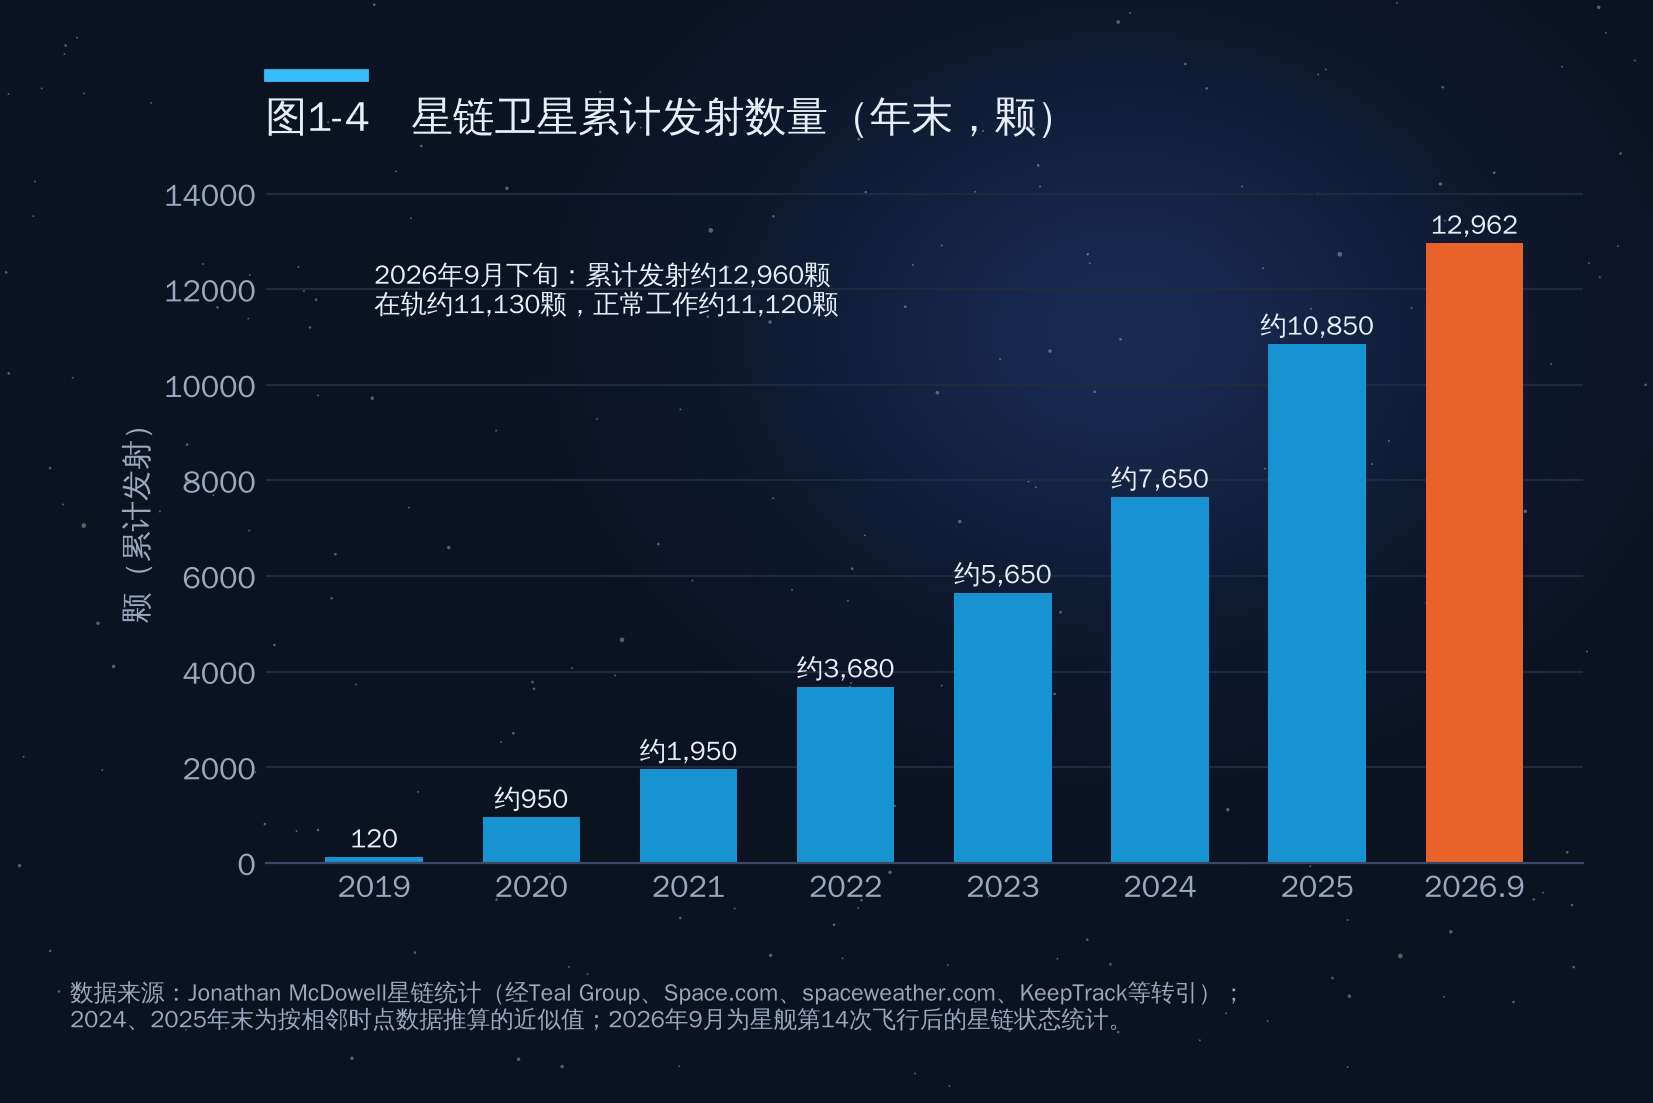
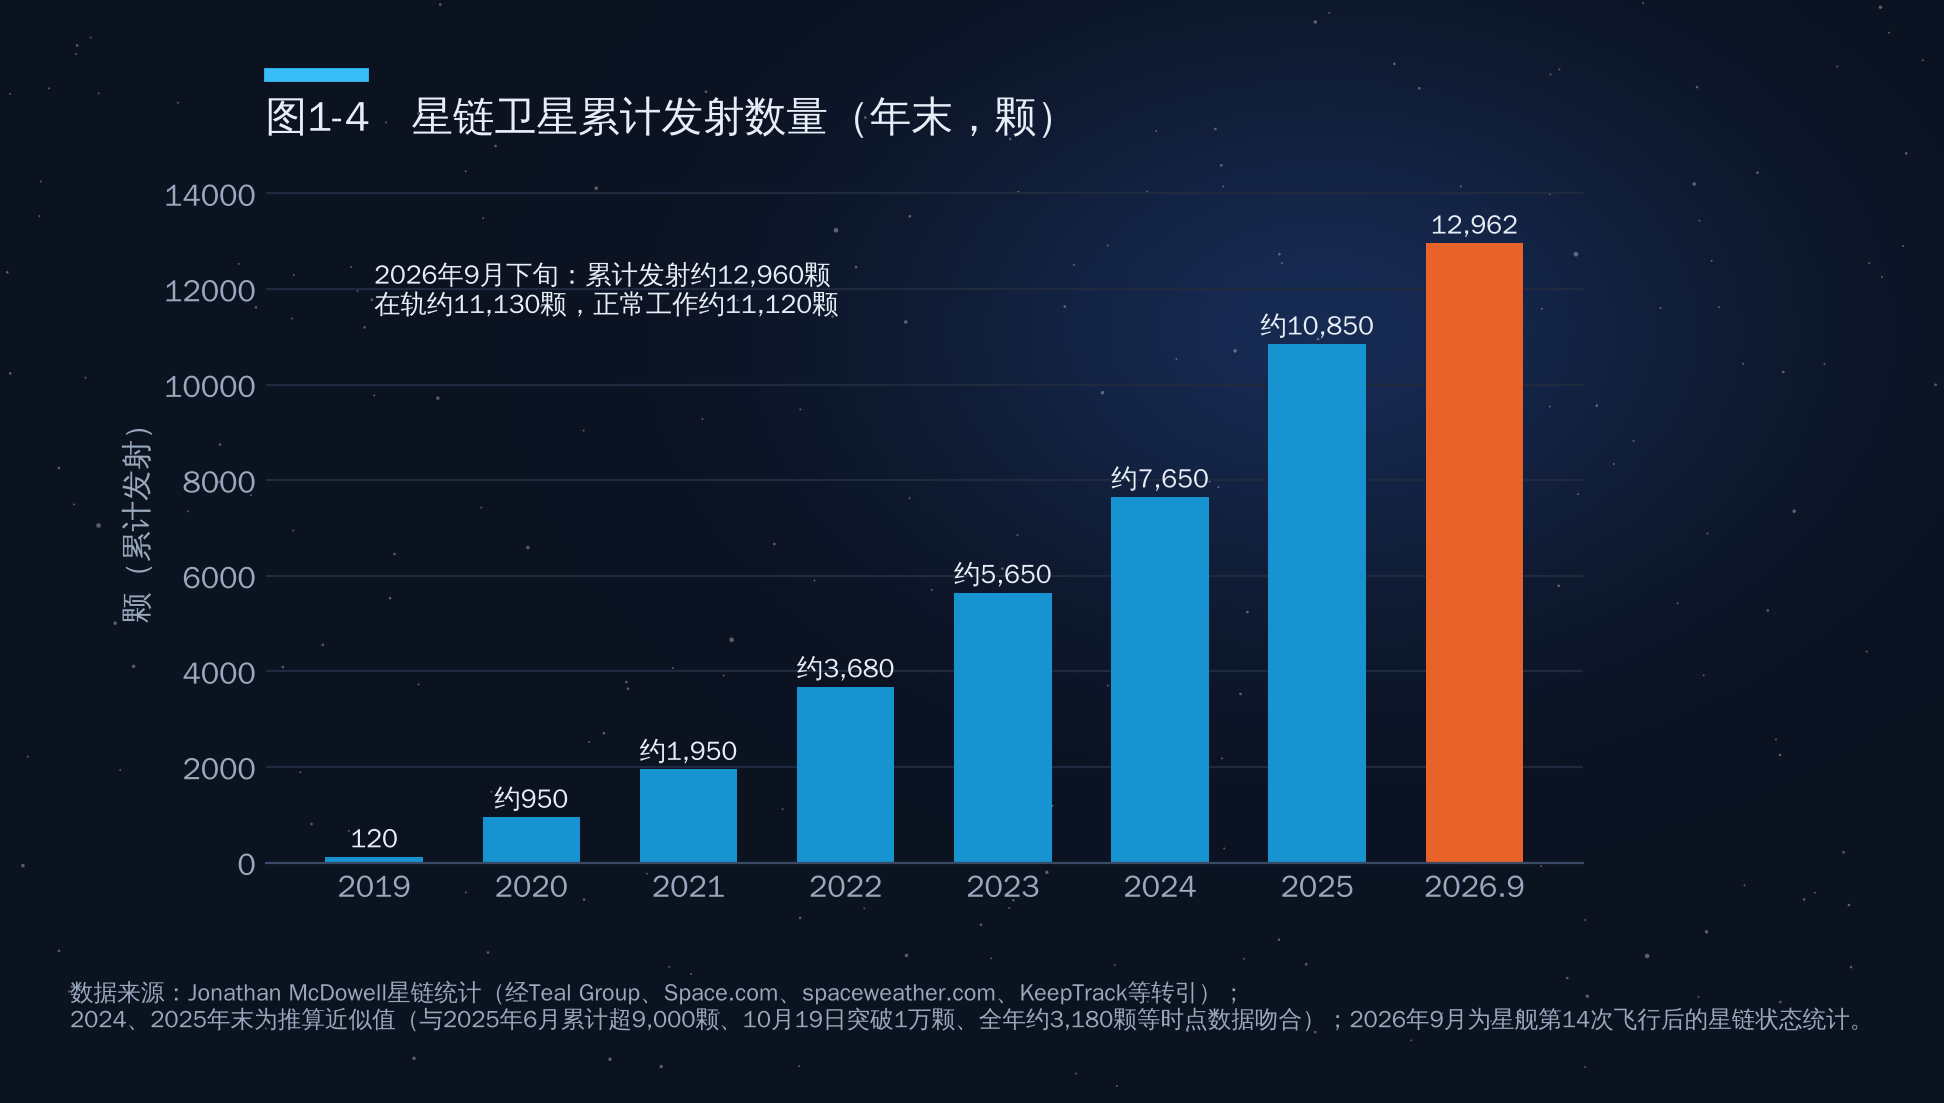
Part IV: third-round exhaustive fact-check
Claude-Session: https://claude.ai/code/session_014tmLkR5ogaDPRCKC77QLgm

diff --git a/doha-space-economy/part1/charts/fig1-4_starlink_cumulative.py b/doha-space-economy/part1/charts/fig1-4_starlink_cumulative.py
@@ -14,5 +14,5 @@ ax.set_ylabel("颗（累计发射）")
 ax.set_ylim(0, 14500)
 ax.text(0, 11500, "2026年9月下旬：累计发射约12,960颗\n在轨约11,130颗，正常工作约11,120颗", fontsize=9.5, color="#444444")
 ax.set_title("图1-4　星链卫星累计发射数量（年末，颗）")
-source_note(fig, "数据来源：Jonathan McDowell星链统计（经Teal Group、Space.com、spaceweather.com、KeepTrack等转引）；\n2024、2025年末为按相邻时点数据推算的近似值；2026年9月为星舰第14次飞行后的星链状态统计。")
+source_note(fig, "数据来源：Jonathan McDowell星链统计（经Teal Group、Space.com、spaceweather.com、KeepTrack等转引）；\n2024、2025年末为推算近似值（与2025年6月累计超9,000颗、10月19日突破1万颗、全年约3,180颗等时点数据吻合）；2026年9月为星舰第14次飞行后的星链状态统计。")
 save(fig, __file__)

diff --git a/doha-space-economy/part1/charts/fig6-1_telescopes.py b/doha-space-economy/part1/charts/fig6-1_telescopes.py
@@ -23,7 +23,7 @@ for i, (name, ap, band, orbit, done) in enumerate(t):
 ax.set_yticks(range(len(t)))
 ax.set_yticklabels([x[0] for x in t])
 ax.set_xlim(0, 11.5)
-ax.set_xlabel("主镜口径（米）")
+ax.set_xlabel("口径（米）")
 ax.grid(axis="x", color="#E5E5E5"); ax.grid(axis="y", visible=False)
 ax.set_title("图6-1　主要空间望远镜的口径、波段与轨道位置")
 source_note(fig, "数据来源：NASA、ESA、中国载人航天工程办公室公开资料。斜线柱为计划中项目（发射时间以官方最新公布为准）。\n欧空局PLATO（计划2027年初发射）由26台口径12厘米相机组成，未列入。")

diff --git a/doha-space-economy/part5/zz_notes.md b/doha-space-economy/part5/zz_notes.md
@@ -12,7 +12,7 @@
 - SpaceX：招股说明书（S-1）及2026年第二季度财报（经彭博、Motley Fool、Nasdaq等转引）；IPO条款见彭博、WAM。
 - Jonathan McDowell：2025年全球发射统计（经Payload等转引）。
 - 企业：Advanced Television（亚马逊Leo）；路透社（Eutelsat）；AST SpaceMobile、Planet Labs、Rocket Lab财报。
-- 中国：国家航天局；澎湃新闻、第一财经；新华社、光明网；C114通信网；界面新闻、华尔街见闻；《新民周刊》；赛迪论坛及《中国商业航天产业研究报告》。
+- 中国：国家航天局；赛迪智库《2026年我国商业航天产业发展形势展望》（经媒体转引）；澎湃新闻、第一财经；新华社、光明网；C114通信网；界面新闻、华尔街见闻；《新民周刊》；赛迪论坛及《中国商业航天产业研究报告》。
 - 投资：Seraphim Space Index；Space Capital（经MarketWatch、CNBC转引）。
 - 海湾：PIF官网；路透社、《金融时报》、彭博、AGBI；Space42公告；卡塔尔通讯社。
 
@@ -37,19 +37,30 @@
 
 ### 数据核查说明
 
-1. **全球太空经济规模**：Space Foundation 2025年6856亿美元；Novaspace同年6264亿美元，口径不同，正文已说明。
-2. **"2026年商业航天市场预计可达3.5万亿元"**：未找到权威出处；已核实的是2025年"核心产业"1.01万亿元（赛迪）与"产业规模"2.5万亿—2.8万亿元，正文作宽口径预测处理。**请作者确认来源。**
-3. **星链用户数**：已核实（第二轮）→ 最新官方数仍为1200万（2026年6月30日，二季度财报），三季度数据尚未发布；"超过1300万"仅见二手报道。分部收入为二手转引S-1，各源相差约1亿美元。
-4. **SpaceX股价**：已核实（第二轮）→ 6月16日高点约225.6美元；7月下旬跌破发行价（低点各源105—111美元不等）；8月4日财报后盘后跌6%—8%；10月1日约152美元、市值约2.0万亿美元。原文"8月初跌至117美元"无可靠来源，已改。来源：MarketChameleon、SiliconANGLE、XTB。**演讲前请按实时行情更新。**
-5. **星链在轨卫星数**：已核实（第二轮）→ 9月10日McDowell统计累计发射12935颗、在役11118颗；9月21日KeepTrack统计在役11139颗。已在14.3节补写。
-6. **美国太空军预算**：已核实（第二轮）→ FY2021最终拨款约152亿美元（SpaceNews）；FY2022约180.55亿美元（SpacePolicyOnline）；FY2024约289亿美元（SpacePolicyOnline；SpaceNews称约290亿）；FY2025为全年持续决议，约288亿—289亿美元（SpaceInsider）。图15-1与正文已改为最终拨款数。FY2026"约400亿美元"与空军图表"320亿美元"的口径差异仍未解。
-7. **"金穹"成本**：三个数字均有来源；已拨约250亿美元（另一来源约240亿）。
-8. **GNSS干扰**：已核实（第二轮）→ IATA数据：每千架次GPS信号丢失事件2022年31次、2025年约59次（估计，2025年12月IATA发布，经Business Standard等转引）；2022年此类事件68.5%发生在中东北非及邻近地区（IATA提交ICAO中东区会议材料）。已补入15.2节。二手文章"干扰增长67%、欺骗增长193%"仍未见IATA原文，未采用。
-9. **北斗产值**：已核实（第二轮）→ 2019年3450亿（《2020白皮书》，经前瞻、智研转引）、2020年4033亿（核心1295+关联2738亿）、2021年4690亿（+16.29%，《2022白皮书》，中新网）、2023年5362亿（+7.09%，《2024白皮书》）、2022年由此反推约5007亿；2024年5758亿、2025年6290亿及新口径13323亿已核实。图15-4数据无误。
-10. **麦肯锡"骨干/延伸"拆分**：部分核实（第二轮）→ 2023年骨干3300亿、延伸3000亿美元为麦肯锡原文；2035年骨干约7550亿、延伸"超过1万亿美元"见多家二手报道（SpaceNews作7750亿）。图14-2中延伸1.035万亿美元未见原文，WEF报告PDF无法访问；正文已改为"1万亿美元以上"。**请作者以WEF报告原图核对。**
-11. **太空旅游价格**：已核实（第二轮）→ 蒂托约2000万美元（CNN）、拉利伯特约3500万美元（2009年）、维珍早期20万—25万美元、2021年45万美元、2026年75万美元；Ax-1约5500万、Ax-4约7000万（报道）。蓝色起源"98人次（92人）"已核实。
-12. **朱雀三号一子级回收**：已核实（第二轮）→ 2026年8月19日朱雀三号遥二发射成功，一子级以着陆支腿方式软着陆于甘肃民勤，为中国首次入轨级火箭一子级陆地回收（新华网、光明网、Spaceflight Now）。正文已改为确定表述。**蓝箭航天IPO**：2025年12月31日受理、2026年1月22日进入问询、6月29日更新招股书（2025年营收约5210万元、净亏损约17.11亿元）；未检索到过会或注册消息，正文写"仍在审核中"。
-13. **嫦娥七号**：已核实（第二轮）→ 8月23日官方宣布"不满足发射条件，不能在今年预定窗口实施"，未公布原因与新日期（美联社、新华社）；与第三部分表述一致，已在16章补注。埃及—巴林载荷已核实。
-14. **亚马逊Leo、AST SpaceMobile**：已核实（第二轮）→ Leo最新可靠数仍为7月初在轨396颗，FCC已批准其里程碑延期（24个月），企业测试版4月开放，商业服务计划2026年内启动，8—9月新增数未见可靠统计。AST截至2026年8月5日累计发射约13颗BlueBird（含此前一次发射失利，在轨数可能约12颗），目标约45颗（2026年底或2027年初）。
-15. **其他抽查（第二轮）**：Viasat KA-SAT攻击致德国Enercon约5800台风机失去远程监控——已核实；SpaceX收购EchoStar频谱——已核实为2025年9月宣布约170亿美元（AWS-4与H频段）、11月追加约26亿美元（AWS-3），交割状态未检索到，正文已改；卡尔达肖夫等级——萨根1973年估算约0.7，按当下约20太瓦能耗约0.73，正文已补；星舰第14次飞行部署26颗V3卫星——已核实。
-16. **仍未单独检索、建议抽查**：中阿北斗合作论坛与突尼斯中心；2025年3月美国暂停对乌商业图像访问；俄罗斯2024年4月安理会否决；千帆与多国签署合作；阿拉伯语星名词源；苏菲、比鲁尼生平；奥尼尔"岛三号"尺寸。
+（"三"＝第三轮核实，2026年10月8日。）
+
+1. **全球太空经济**：已核实（三）→ Space Foundation 2025年6856亿美元（商业5443亿、79%；"2032年前后破万亿"见2025 Q2发布）；Novaspace 2025年6264亿、核心2360亿、2034年1.01万亿（年均5.5%为推算）。
+2. **"2026年商业航天3.5万亿元"**：已核实（三）→ 出自赛迪智库《2026年我国商业航天产业发展形势展望》：2025年2.83万亿元（+21.7%），2026年约3.5万亿元（东方财富、21财经等转引；原报告未得见，口径未公开，另有文章归于"全拓数据"）。正文已补出处。
+3. **星链用户**：已核实（三）→ 最新官方仍为1200万（6月30日）；三季度财报尚未发布（预计10月底至11月中旬）。"超过1300万"仅二手。ARPU 99→66美元为S-1二手转引。
+4. **SpaceX**：已核实（三）→ 10月7日收盘167.6美元，市值2.21万亿—2.34万亿美元（Google Finance、MarketBeat、StockAnalysis）；52周区间104.83—225.64美元。原"10月初约150美元、约2万亿"已改。**演讲前请按实时行情更新。**IPO流通股约4.9%、分批解禁、马斯克锁定366天（Motley Fool、Morningstar）；xAI合并1.25万亿、2025年12月8000亿（彭博、SCMP）；二季度收入78亿（+92%）、连接43亿（+66%）、企业与政府18.06亿（+108%）（公司财报）。
+5. **星链在轨数**：已核实（第二轮）。
+6. **太空军预算**：FY21—25已核实（第二轮）；FY2023约263亿已核实（三，SpacePolicyOnline）。FY2026：已查明（三）→ 国防部口径401亿＝常规约263亿＋和解138亿；空军部2026年春图表显示320亿，约80亿差额SpacePolicyOnline亦称"去向不明"；Aerospace/CSPS按320亿计FY27增幅约120%。正文已并列两种口径。
+7. **"金穹"**：已核实（三）→ 1750亿/1850亿/1.2万亿/4480亿/7800颗；FY27申请175亿（常规3.98亿）；20份合同、12家、上限32亿（DefenseScoop）；250亿已签约约九成；7月底缩减版和解方案未含金穹资金、现处持续决议（Breaking Defense、DefenseScoop，2026年8月）。正文已补。
+8. **GNSS干扰**：IATA数据已核实（第二轮）。三：2025年1—4月122607架次、365家、4月27.4%——已核实（EU Today等转引瑞典等六国提交ICAO文件，原件未见）；立陶宛"约20倍"为2025年10月ICAO大会发言，正文措辞已改。
+9. **北斗**：已核实（第二轮）。
+10. **麦肯锡拆分**：部分核实（三）→ 2023年3300/3000亿为原文；2035年骨干7550亿、延伸"超过1万亿"仅见二手，与7%/11%复合增速推算相符；但麦肯锡电邮简报写法相反（骨干1万亿、延伸8000亿），SpaceNews作7750亿。原报告页面被代理拦截。图14-2已改为"1,000以上"、合计"约1,800"。**请作者以原报告图表核对。**
+11. **太空旅游**：已核实（第二轮/三）→ 维珍2005—2014年20万—25万、2021年45万、2023—2025年60万、2026年75万（Fox、IET）；Ax-5定于2027年1月后（NASA），"四次"无误。
+12. **朱雀三号、蓝箭IPO、嫦娥七号、亚马逊Leo（7月初396颗仍为最新）、AST**：已核实（第二轮，三复查Leo）。
+13. **其他（三）**：
+- Novaspace：2025年政府支出1374亿、国防54%已核实；但2024年国防已占54%（730/1350亿），**原"国防首次超过民用"有误**，第14、15章已改为"连续第二年"。
+- Space Foundation分项：卫星制造+67.2%、发射+49.4%已核实；"在轨服务与SSA各+42.9%"未见原文（二手摘要称ISAM+23%、月球活动+43%），已删。
+- Eutelsat增资：路透为13.5亿欧元，原"15亿"已改（正文、表14-2）；340颗替换卫星已核实。
+- Space42：187亿迪拉姆合同已核实；在手合同约260亿迪拉姆（约71亿美元），原"64亿美元"已改。
+- Es'hail-3/Turksat-Biruni已核实；2.95亿欧元与2030年发射仅见《海湾时报》（CEO表述）。海湾基金IPO各获配超10亿美元：经《中东报》转引FT。
+- Planet（3.077亿美元、订单约9亿）、Rocket Lab（6.018亿、21次含3次HASTE、中子号2026年四季度）、中国上半年44次（+25.7%）与商业30次——已核实。
+- Seraphim 2023年69亿、2024年86亿已核实；Space Capital 2024年原报约260亿，图14-5用反推修订值，图注已说明。
+- 乌克兰星链5万台、波兰2.9万多台；RTI/GPS 1.4万亿（区间0.9—1.8万亿）及分行业、日损10亿、春播季30天约450亿——已核实。
+- SWF 2026年版13国、新增德国已核实；"第9版"存疑，已删。
+- 文化：表16-1星名词源、苏菲《恒星之书》约964年及仙女座"小云"、比鲁尼测地（卒年1048或约1050，说法不一）——已核实。**兀鲁伯星表（1437年）至1665年才有拉丁文全译，原"成为哥白尼工作基础"有误**，已改为巴塔尼被哥白尼引用、兀鲁伯另述。
+- 《三体》剧：1.6亿美元为WSJ报道（每集约2000万），后有更高说法，正文已改；"11天2660万"＝首两周榜单11M＋15.6M，相符。科幻产业1261亿元已核实。
+14. **仍请作者确认**：麦肯锡2035年"延伸"准确数（原报告被拦截）；太空军FY2026两种口径差额（官方无说明）及FY2027拨款进展；星链三季度用户数（未发布）；赛迪3.5万亿元口径（原报告未公开）。检索额度用尽未单独查：中阿北斗论坛与突尼斯中心、2025年3月暂停对乌商业图像、千帆多国协议、奥尼尔"岛三号"尺寸、万户环形山、拉利伯特3500万美元、进入太空人数——均为常见公开史实，风险较低。
